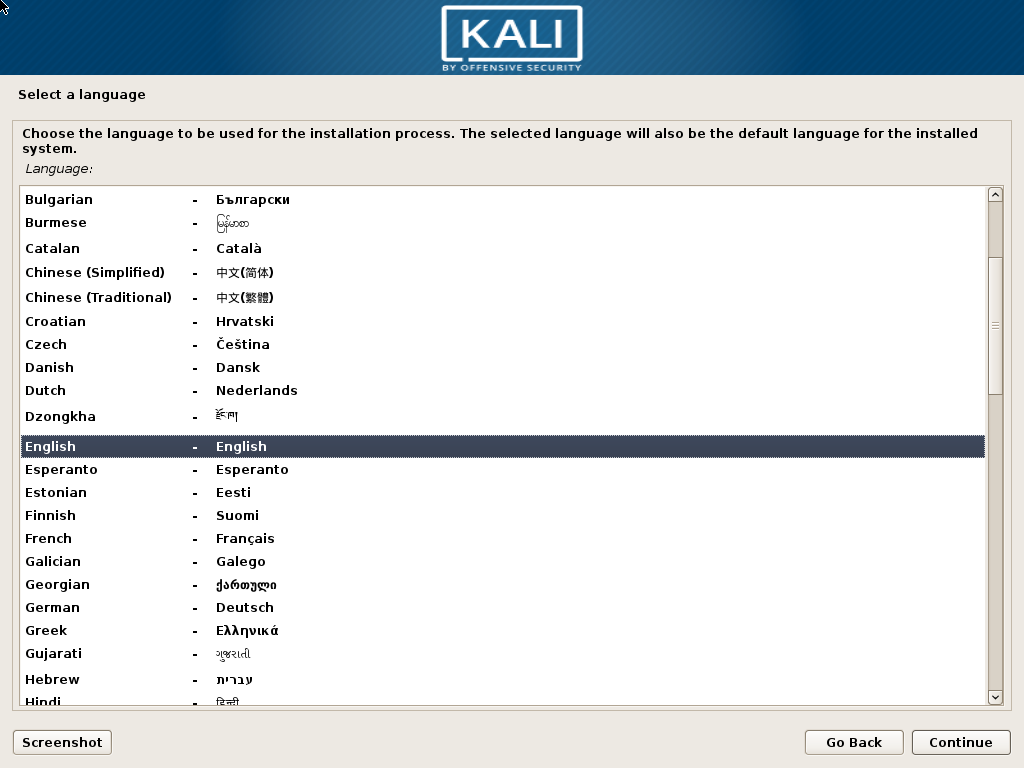
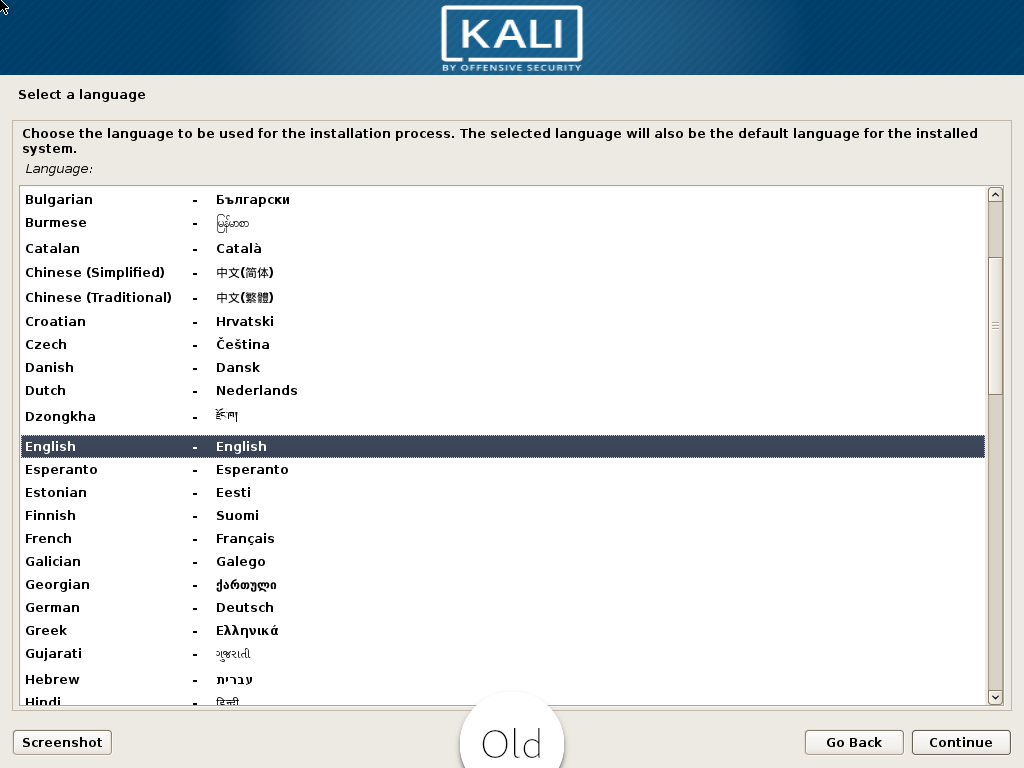
Add 'Kali 2020.1 visual updates' blog post skel

Changed region(s): [[0.4375, 0.9062, 0.5625, 1.0]]

diff --git a/src/content/blog/posts/20200128-Kali 2020.1 visual updates.html b/src/content/blog/posts/20200128-Kali 2020.1 visual updates.html
@@ -1,7 +1,26 @@
+<img src="/content/blog/posts/media/kali-2020.1/kali-gnome-preview.png" alt="kali 2020.1 gnome desktop">
 <br>
+<h2>Terminal tweaks</h2>
+<div class="carousel">
+    <img src="/content/blog/posts/media/kali-2020.1/kali-terminal-old.png" alt="kali 2019.4 old terminal" data-content="old">
+    <img src="/content/blog/posts/media/kali-2020.1/kali-terminal-new.png" alt="kali 2020.1 new terminal" data-content="new" style="box-shadow:none;filter:drop-shadow(0 5px 30px rgba(0,0,0,.3));">
+</div>
+<h2>GNOME shell themes</h2>
+<img src="/content/blog/posts/media/kali-2020.1/kali-gnome-dark.png" alt="kali 2020.1 gnome-shell dark theme">
+<img src="/content/blog/posts/media/kali-2020.1/kali-gnome-light.png" alt="kali 2020.1 gnome-shell light theme">
+<img src="/content/blog/posts/media/kali-2020.1/kali-gnome-overview-dark.png" alt="kali 2020.1 gnome-shell overview dark theme">
+<img src="/content/blog/posts/media/kali-2020.1/kali-gnome-overview-light.png" alt="kali 2020.1 gnome-shell overview light theme">
+<h2>New icons</h2>
 <div id="icons"></div>
+<img src="/content/blog/posts/media/kali-2020.1/kali-menu.png" alt="kali 2020.1 xfce menu new icons" style="transform:none">
 <br>
-
+<h2>Kali-Undercover updates</h2>
+<img src="/content/blog/posts/media/kali-2020.1/kali-undercover.png" alt="kali 2020.1 kali-undercover updates">
+<h2>Kali 2020.1 GUI installer</h2>
+<div class="carousel">
+    <img src="/content/blog/posts/media/kali-2020.1/kali-gui-installer-old.png" alt="kali old gui installer theme">
+    <img src="/content/blog/posts/media/kali-2020.1/kali-gui-installer-new.png" alt="kali new gui installer theme">
+</div>
 
 <style>
     article#blog-post-container #icons {
@@ -40,6 +59,64 @@
             padding: 3.5em .35em;
         }
     }
+
+    :not(#blog-container) article > img { transition: transform .2s; }
+    :not(#blog-container) article > img:active {
+        transform: scale(1.5);
+        z-index: 1;
+    }
+
+    @keyframes carousel {
+        0%, 100%, 35% {
+            opacity: 1;
+        }
+        50%, 85% {
+            opacity: 0;
+        }
+    }
+    .carousel {
+        position: relative;
+        margin: 60px 0;
+    }
+    .carousel > img {
+        margin: 0!important;
+        position: absolute;
+        top: 0;
+        opacity: 0;
+        animation: 10s carousel infinite;
+    }
+    .carousel img:first-child { position: static; }
+    .carousel img:nth-child(2) { animation-delay: -5s; }
+    @keyframes carousel-progress {
+        0%, 75%, 100% {
+            width: 0;
+            opacity: .5;
+        }
+        70% {
+            width: 80%;
+            opacity: 1;
+        }
+    }
+    .carousel::after, .carousel::before {
+        content: '';
+        display: block;
+        width: 80%;
+        height: 3px;
+        border-radius: 10px;
+        background: white;
+        position: absolute;
+        bottom: 45px;
+        left: 50%;
+        transform: translateX(-50%);
+        opacity: .2;
+        box-shadow: 0 0 10px black;
+        z-index: 1;
+    }
+    .carousel::before {
+        animation: 5s carousel-progress linear infinite;
+    }
+
+</style>
 </style>
 <script>
   __ETHENIS.onLoadOnce = () => {
@@ -129,7 +206,6 @@
 <img src="/content/blog/posts/media/kali-2020.1/icons/kali-sqlninja.svg" alt="kali sqlninja.svg app icon">
 <img src="/content/blog/posts/media/kali-2020.1/icons/kali-sparta.svg" alt="kali sparta.svg app icon">
 <img src="/content/blog/posts/media/kali-2020.1/icons/kali-ettercap.svg" alt="kali ettercap.svg app icon">
-
 <div class="bigger-icons">
 <br>
 <h2>Categories</h2>
